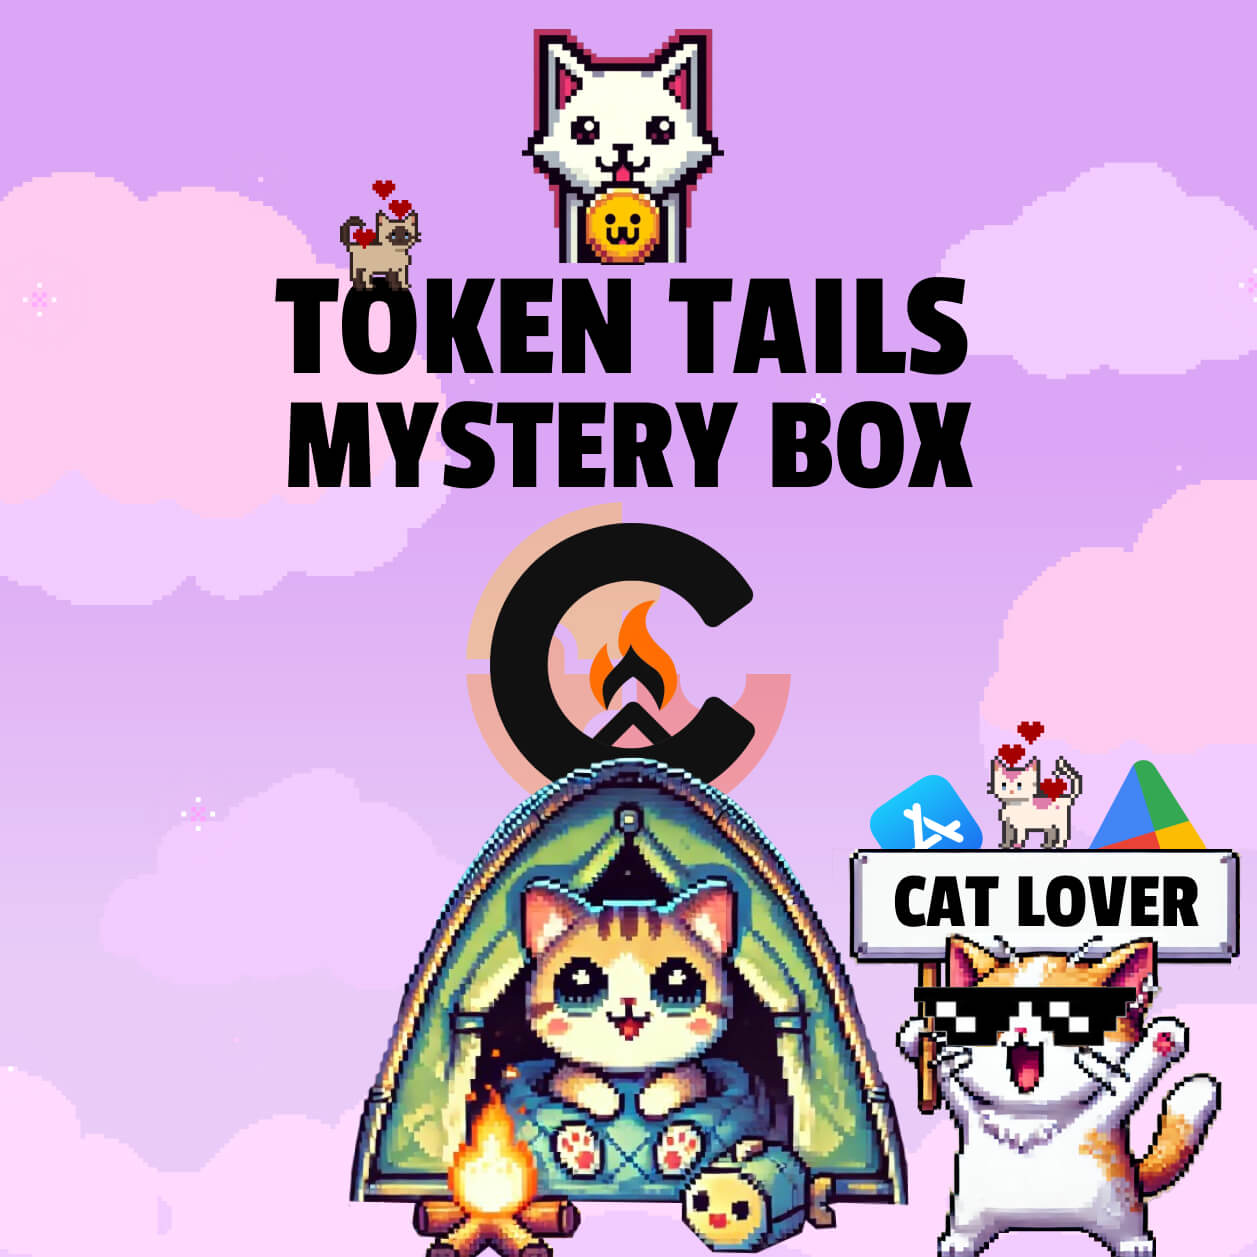
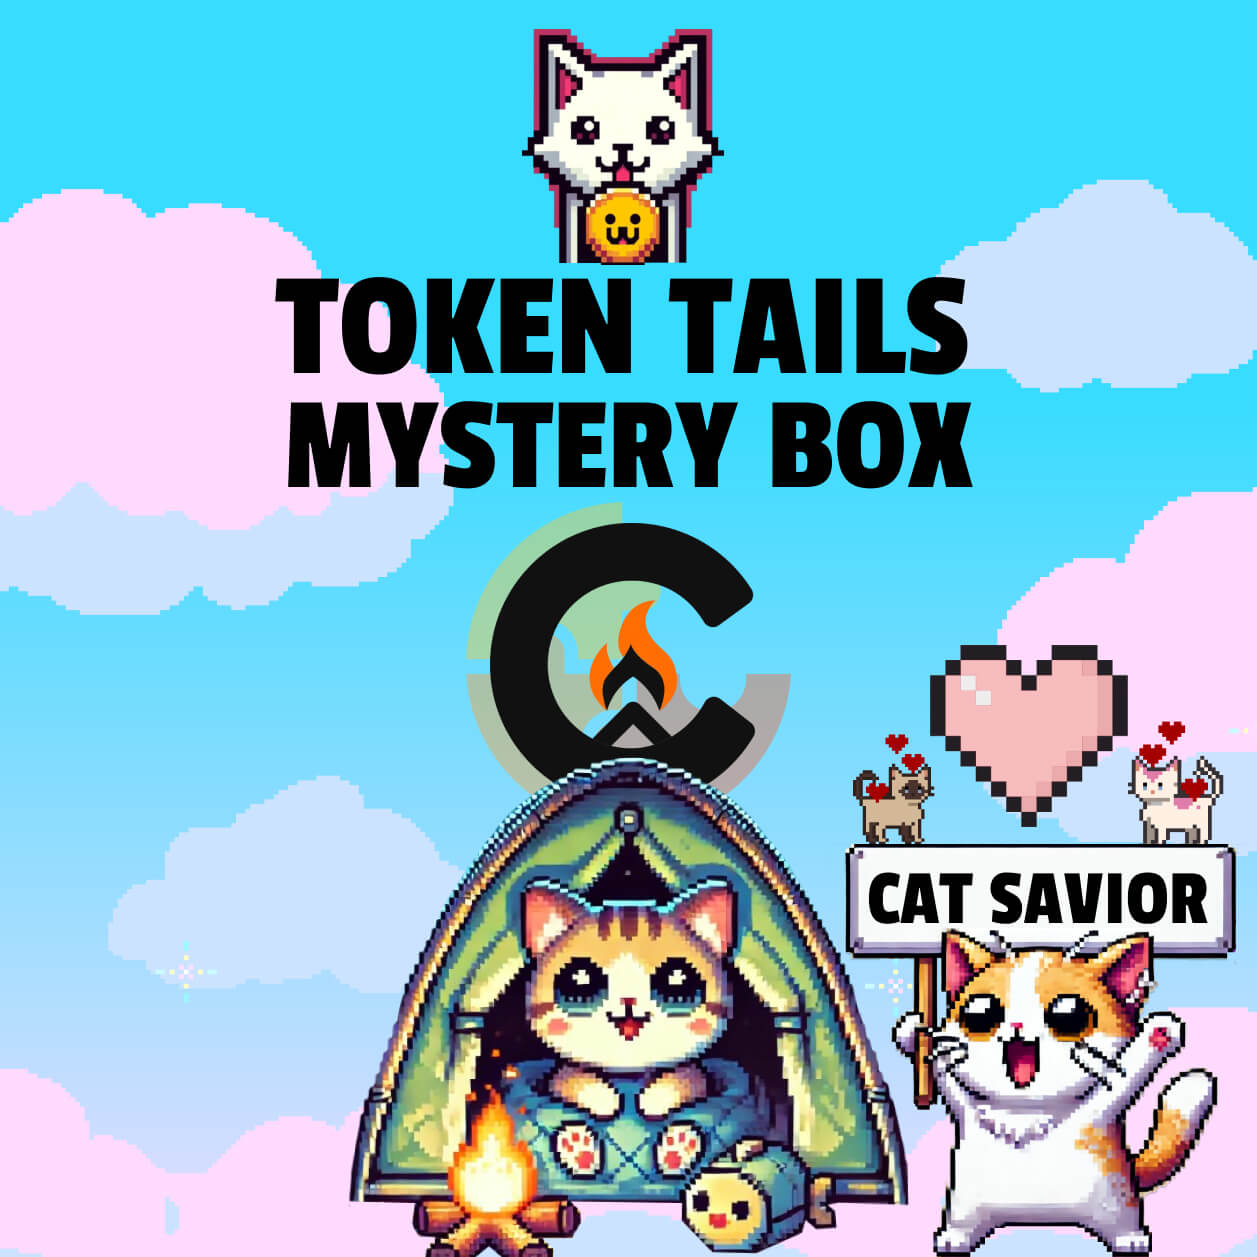
para campaign fixes

diff --git a/components/mystery/MysteryBox.tsx b/components/mystery/MysteryBox.tsx
@@ -24,7 +24,10 @@ const Web3Mint = dynamic(
   {
     ssr: false,
     loading: () => (
-      <div className="font-primary font-bold">Loading minting...</div>
+      <img
+        src="/icons/loader.webp"
+        className="w-8 h-8 m-auto animate-spin pixelated"
+      />
     ),
   }
 );
@@ -72,39 +75,25 @@ export const MysteryBox = () => {
   const toast = useToast();
   const { setGameType } = useGame();
   const mysteryBox = useMemo(() => {
-    if (
-      !(
-        profile?.quests?.includes(
-          mysteryBoxes[ChainType.CAMP_TEST]![0].chain
-        ) ||
-        !profile?.quests?.includes(mysteryBoxes[ChainType.CAMP_TEST]![0].name)
-      )
-    ) {
+    if (!profile?.quests?.includes(mysteryBoxes[ChainType.CAMP_TEST]![0].key)) {
       return mysteryBoxes[ChainType.CAMP_TEST]![0];
     }
-    if (
-      !profile?.quests?.includes(mysteryBoxes[ChainType.CAMP_TEST]![1].name)
-    ) {
+    if (!profile?.quests?.includes(mysteryBoxes[ChainType.CAMP_TEST]![1].key)) {
       return mysteryBoxes[ChainType.CAMP_TEST]![1];
     }
-    if (
-      !profile?.quests?.includes(mysteryBoxes[ChainType.CAMP_TEST]![2].name)
-    ) {
+    if (!profile?.quests?.includes(mysteryBoxes[ChainType.CAMP_TEST]![2].key)) {
       return mysteryBoxes[ChainType.CAMP_TEST]![2];
     }
     return mysteryBoxes[ChainType.CAMP_TEST]![3];
-  }, []);
+  }, [profile?.quests]);
   const unlockedIndex = useMemo(() => {
     return mysteryBoxes[ChainType.CAMP_TEST]?.findIndex(
-      (box) => box.name === mysteryBox.name
+      (box) => box.key === mysteryBox.key
     );
   }, [mysteryBox]);
   const isRedeemed = useMemo(() => {
-    return (
-      !!profile?.quests?.includes(mysteryBox.name) ||
-      (unlockedIndex === 0 && !!profile?.quests?.includes(mysteryBox.chain))
-    );
-  }, [profile?.quests, mysteryBox.name]);
+    return !!profile?.quests?.includes(mysteryBox.key);
+  }, [profile?.quests, mysteryBox.key]);
   const { data: cats } = useQuery({
     queryKey: ["cats", profile?.cat],
     queryFn: () => CAT_API.cats(),
@@ -123,22 +112,28 @@ export const MysteryBox = () => {
         (profile?.catpoints || 0) >= mysteryBox.requirements.metadata.catpoints
       );
     }
+    if (mysteryBox.requirements?.type === MysteryBoxRequirementType.CATNIP) {
+      return (
+        (profile?.catnipChaos?.reduce((a, b) => a + b, 0) || 0) >=
+        mysteryBox.requirements.metadata.catnip
+      );
+    }
     return true;
-  }, [profile?.quests, mysteryBox.chain, mysteryBox.name]);
+  }, [profile?.quests, mysteryBox.chain, mysteryBox.key]);
 
   const onRedeem = async () => {
-    const result = await QUEST_API.redeemContest(mysteryBox.name);
+    const result = await QUEST_API.redeemContest(mysteryBox.key);
     if (result.success && result.cat) {
       setProfileUpdate({
         cats: [...(profile?.cats || []), result.cat],
         cat: result.cat,
-        quests: [...(profile?.quests || []), mysteryBox.name],
+        quests: [...(profile?.quests || []), mysteryBox.key],
       });
       setGameType(GameType.HOME);
     }
     if (result.success && result.catpoints) {
       setProfileUpdate({
-        quests: [...(profile?.quests || []), mysteryBox.name],
+        quests: [...(profile?.quests || []), mysteryBox.key],
         catpoints: (profile!.catpoints || 0) + result.catpoints,
       });
     }
@@ -157,7 +152,7 @@ export const MysteryBox = () => {
         </div>
         <div className="flex flex-col md:gap-2 w-full md:w-auto">
           <Tag isSmall>TIME LIMITED FREE MINT</Tag>
-          <Countdown targetDate="2025-05-19" isDaysDisplayed></Countdown>
+          <Countdown targetDate="2025-06-01" isDaysDisplayed></Countdown>
           <MysteryBoxEligibility
             mysteryBox={mysteryBox}
             isEligible={isEligible}

diff --git a/web3/web3.model.ts b/web3/web3.model.ts
@@ -22,11 +22,13 @@ export enum MysteryBoxRequirementType {
   APP_DOWNLOAD = "APP_DOWNLOAD",
   COINS = "COINS",
   PURCHASE = "PURCHASE",
+  CATNIP = "CATNIP",
 }
 
 export interface IMysteryBox {
   address: string;
   name: string;
+  key: string;
   chain: ChainType;
   image: string;
   faucet?: string;
@@ -52,18 +54,31 @@ export const chainTypeRpcUrl: Record<ChainType, string> = {
   [ChainType.CAMP_TEST]: "https://rpc.camp.network",
 };
 
+enum MYSTERY_BOX_TYPE {
+  CAMP_1 = "CAMP_1",
+  CAMP_2 = "CAMP_2",
+  CAMP_3 = "CAMP_3",
+  CAMP_4 = "CAMP_4",
+  KEYBOARD_CAT = "KEYBOARD_CAT",
+}
+
 export const mysteryBoxes: Partial<Record<ChainType, IMysteryBox[]>> = {
   [ChainType.CAMP_TEST]: [
     {
       address: "0xa0D4687483F049c53e6EC8cBCbc0332C74180168",
       name: "Camp Mystery Box - Beginner Tier",
+      key: MYSTERY_BOX_TYPE.CAMP_1,
       chain: ChainType.CAMP_TEST,
       image: "/utilities/mystery-boxes/mystery-box-camp.jpg",
       faucet: "https://faucet.campnetwork.xyz",
+      requirements: {
+        text: "Joined Token Tails",
+      },
     },
     {
       address: "0x0A65888A4F76D821A3148620866BC65A5db599BB",
       name: "Camp Mystery Box - Explorer Tier",
+      key: MYSTERY_BOX_TYPE.CAMP_2,
       chain: ChainType.CAMP_TEST,
       image: "/utilities/mystery-boxes/mystery-box-camp2.jpg",
       faucet: "https://faucet.campnetwork.xyz",
@@ -76,31 +91,37 @@ export const mysteryBoxes: Partial<Record<ChainType, IMysteryBox[]>> = {
       },
     },
     {
-      address: "0x5B1793d4AA54a36ad5F53d20C9ad1eEd8609410C",
-      name: "Camp Mystery Box - Cat Lover Tier",
-      chain: ChainType.CAMP_TEST,
-      image: "/utilities/mystery-boxes/mystery-box-camp3.jpg",
-      faucet: "https://faucet.campnetwork.xyz",
-      requirements: {
-        type: MysteryBoxRequirementType.APP_DOWNLOAD,
-        text: "Coming Soon !",
-      },
-    },
-    {
       address: "0xec735A2Ba32703215b3e40d669C61FBd849b422a",
       name: "Camp Mystery Box - Cat Savior Tier",
+      key: MYSTERY_BOX_TYPE.CAMP_3,
       chain: ChainType.CAMP_TEST,
-      image: "/utilities/mystery-boxes/mystery-box-camp4.jpg",
+      image: "/utilities/mystery-boxes/mystery-box-camp3.jpg",
       faucet: "https://faucet.campnetwork.xyz",
       requirements: {
         type: MysteryBoxRequirementType.PURCHASE,
         text: "Save a cat",
       },
     },
+    {
+      address: "0x5B1793d4AA54a36ad5F53d20C9ad1eEd8609410C",
+      name: "Camp Mystery Box - Cat Lover Tier",
+      key: MYSTERY_BOX_TYPE.CAMP_4,
+      chain: ChainType.CAMP_TEST,
+      image: "/utilities/mystery-boxes/mystery-box-camp4.jpg",
+      faucet: "https://faucet.campnetwork.xyz",
+      requirements: {
+        type: MysteryBoxRequirementType.CATNIP,
+        metadata: {
+          catnip: 60,
+        },
+        text: "Collect 60 catnip",
+      },
+    },
   ],
   [ChainType.STELLAR]: [
     {
       address: "CBK4KAHLHNWOF4HEZFY2W57NYMSC4DLZGLGCM4HZUPAUU3PDPM3IMRS4",
+      key: MYSTERY_BOX_TYPE.KEYBOARD_CAT,
       name: "KEYBOARD_CAT",
       chain: ChainType.STELLAR,
       image: "/utilities/mystery-boxes/keyboard-cat.webp",

diff --git a/components/mystery/MysteryCat.tsx b/components/mystery/MysteryCat.tsx
@@ -26,7 +26,12 @@ const Web3MintStellar = dynamic(
     ),
   {
     ssr: false,
-    loading: () => <div className="font-primary font-bold">Loading cat...</div>,
+    loading: () => (
+      <img
+        src="/icons/loader.webp"
+        className="w-8 h-8 m-auto animate-spin pixelated"
+      />
+    ),
   }
 );
 
@@ -76,8 +81,8 @@ export const MysteryCat = () => {
     return mysteryBoxes[ChainType.STELLAR]![0];
   }, []);
   const isRedeemed = useMemo(() => {
-    return !!profile?.quests?.includes(mysteryBox.name);
-  }, [profile?.quests, mysteryBox.name]);
+    return !!profile?.quests?.includes(mysteryBox.key);
+  }, [profile?.quests, mysteryBox.key]);
   const { data: cats } = useQuery({
     queryKey: ["cats", profile?.cat],
     queryFn: () => CAT_API.cats(),
@@ -97,21 +102,21 @@ export const MysteryCat = () => {
       );
     }
     return true;
-  }, [profile?.quests, mysteryBox.chain, mysteryBox.name]);
+  }, [profile?.quests, mysteryBox.chain, mysteryBox.key]);
 
   const onRedeem = async () => {
-    const result = await QUEST_API.redeemContest(mysteryBox.name);
+    const result = await QUEST_API.redeemContest(mysteryBox.key);
     if (result.success && result.cat) {
       setProfileUpdate({
         cats: [...(profile?.cats || []), result.cat],
         cat: result.cat,
-        quests: [...(profile?.quests || []), mysteryBox.name],
+        quests: [...(profile?.quests || []), mysteryBox.key],
       });
       setGameType(GameType.HOME);
     }
     if (result.success && result.catpoints) {
       setProfileUpdate({
-        quests: [...(profile?.quests || []), mysteryBox.name],
+        quests: [...(profile?.quests || []), mysteryBox.key],
         catpoints: (profile!.catpoints || 0) + result.catpoints,
       });
     }
@@ -130,7 +135,7 @@ export const MysteryCat = () => {
         </div>
         <div className="flex flex-col md:gap-2 w-full md:w-auto">
           <Tag isSmall>MINT IT NOW, DON'T MISS IT</Tag>
-          <Countdown targetDate="2025-05-19" isDaysDisplayed></Countdown>
+          <Countdown targetDate="2025-06-01" isDaysDisplayed></Countdown>
           <MysteryBoxEligibility
             mysteryBox={mysteryBox}
             isEligible={isEligible}
@@ -148,7 +153,7 @@ export const MysteryCat = () => {
                 />
               </Web3Providers>
             ))}
-          <a href="https://lobstr.co/" target="_blank">
+          <a href="https://lobstr.co/" target="_blank" className="m-auto">
             <PixelButton
               isSmall
               text="I DON'T HAVE A WALLET"

diff --git a/components/shared/InviteModal.tsx b/components/shared/InviteModal.tsx
@@ -30,30 +30,44 @@ export const InviteModalContent = () => {
       <div className="py-2 flex justify-center gap-4">
         <PixelButton
           active={type === GameModal.MYSTERY_BOX}
-          text="FREE MINT"
+          text="CAMP"
           onClick={() => setType(GameModal.MYSTERY_BOX)}
         ></PixelButton>
         <PixelButton
           active={type === GameModal.INVITE}
-          text="INVITE FRIENDS"
+          text="INVITE"
           onClick={() => setType(GameModal.INVITE)}
         ></PixelButton>
         <PixelButton
           active={type === GameModal.MYSTERY_CAT}
-          text="KEYBOARD CAT"
+          text="FUN"
           onClick={() => setType(GameModal.MYSTERY_CAT)}
         ></PixelButton>
       </div>
       {type === GameModal.INVITE && (
         <>
           <div
-            className="flex flex-col mb-4 font-primary uppercase px-2  rounded-lg py-2 text-main-black"
+            className="flex flex-col mb-4 font-primary uppercase px-2 relative rounded-lg py-2 text-main-black mt-8"
             style={{
               backgroundImage: "url(/backgrounds/bg-night.png)",
               backgroundSize: "cover",
               backgroundPosition: "center",
             }}
           >
+            <div className="absolute -top-3 -left-3 z-0 -rotate-45">
+              <img
+                draggable={false}
+                className="h-6 w-6"
+                src="/logo/heart.webp"
+              />
+            </div>
+            <div className="absolute -top-3 -right-3 z-0 rotate-45">
+              <img
+                draggable={false}
+                className="h-6 w-6"
+                src="/logo/heart.webp"
+              />
+            </div>
             <div className="flex flex-row items-center">
               <img
                 draggable={false}
@@ -98,11 +112,7 @@ export const InviteModalContent = () => {
           />
         </>
       )}
-      {type === GameModal.MYSTERY_BOX && (
-        // <ParaProvider paraClientConfig={paraClientConfig}>
-        <MysteryBox />
-        // </ParaProvider>
-      )}
+      {type === GameModal.MYSTERY_BOX && <MysteryBox />}
       {type === GameModal.MYSTERY_CAT && <MysteryCat />}
     </div>
   );

diff --git a/components/web3/minting/useWeb3Minting.tsx b/components/web3/minting/useWeb3Minting.tsx
@@ -107,26 +107,6 @@ export const useWeb3Minting = ({ entityType, user, mysteryBox }: IProps) => {
   }
 
   useEffect(() => {
-    if (isTaxConfirmed) {
-      ORDER_API.confirm({
-        hash: hash!,
-        chainType: mysteryBox.chain,
-        namespace: namespace!,
-        amount: 1,
-        walletAddress: namespaceDetail.address!,
-        currencyType: CurrencyType.USDT,
-        price: 0,
-        entityType,
-        user,
-      })
-        .then(() => {})
-        .catch((error) => {
-          console.error("Confirmation failed:", error);
-        });
-    }
-  }, [isTaxConfirmed]);
-
-  useEffect(() => {
     if (taxData?.status === "success") {
       refetchUserNFTsCount();
       toast({ message: "Mystery box is minted successfully" });

diff --git a/components/shared/QuestsModal.tsx b/components/shared/QuestsModal.tsx
@@ -249,7 +249,7 @@ export const QuestsModalContent = () => {
       <Tag>QUESTS</Tag>
       <div className="py-2 flex items-center justify-between w-full mb-4">
         <PixelButton
-          text="SOCIAL"
+          text="FAMILY"
           active={questsType === QuestType.SOCIAL}
           onClick={() => setQuestsType(QuestType.SOCIAL)}
         ></PixelButton>
